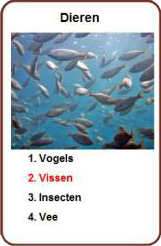
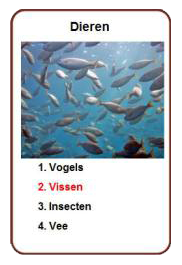
Added new cards with shadow, refactored and fixed some bugs

diff --git a/Lisa.Quartets/Lisa.Quartets.Mobile/Views/CardEnlargeView.xaml.cs b/Lisa.Quartets/Lisa.Quartets.Mobile/Views/CardEnlargeView.xaml.cs
@@ -30,21 +30,24 @@ namespace Lisa.Quartets.Mobile
                 Deselect(image);
                 image.ScaleTo(0.8, 100);
 
-				if (Device.OS == TargetPlatform.iOS) {
+                if (IsIos()) {
 					image.FadeTo(0.5, 100);   
-				} else {					
+				}
+                else
+                {					
 					_opacity[image.CardId].FadeTo(1, 100);
 				}
-
 			}
 			else
 			{
                 Select(image);
                 image.ScaleTo(1, 100);
 
-				if (Device.OS == TargetPlatform.iOS) {
+                if (IsIos()) {
 					image.FadeTo(1, 100);   
-				} else {
+				}
+                else
+                {
 					_opacity[image.CardId].FadeTo(0, 100);
 				}
 
@@ -56,19 +59,20 @@ namespace Lisa.Quartets.Mobile
         private void SetImages()
         {
             CardLayout cardGrid = new CardLayout();
-            int column = 0;
-            int row = 0;
 
             var tapGestureRecognizer = new TapGestureRecognizer();
             tapGestureRecognizer.Tapped += OnImageClick;
             FileImageSource opacitySource = new FileImageSource { File = "opacity.png" };
+            FileImageSource shawdowSource = new FileImageSource { File = "shadow.png" };
 
             foreach (var image in _cardImageHolder.CardImages)
             {
                 image.Scale = 0.8;
                 image.GestureRecognizers.Add(tapGestureRecognizer);
+                Image shadow = new Image { Source = shawdowSource, Scale = 0.8 };
 
-				if (Device.OS == TargetPlatform.iOS) {
+
+                if (IsIos()) {
 					if (IsSelected(image)) {
 						image.Opacity = 1;
 						image.Scale = 1;
@@ -89,20 +93,10 @@ namespace Lisa.Quartets.Mobile
 
 					_opacity.Add(image.CardId, opacity);
 
-					var parent = new AbsoluteLayout{ Children = { image, _opacity[image.CardId] } };
+                    var parent = new AbsoluteLayout{ Children = { image, _opacity[image.CardId] } };
 
 					cardGrid.Children.Add(parent);
 				}
-
-                if (column < 3)
-                {
-                    column++;
-                }
-                else
-                {
-                    column = 0;
-                    row++;
-                }
             }
 
             scrollView.Content = cardGrid;
@@ -111,6 +105,11 @@ namespace Lisa.Quartets.Mobile
         private bool IsSelected(CardImage image)
         { 
             return _selectedImages.Contains(image.CardId);
+        }
+
+        private bool IsIos()
+        {
+            return Device.OS == TargetPlatform.iOS;
         }
 
         private void Select(CardImage image)

diff --git a/Lisa.Quartets/Lisa.Quartets.Mobile/CardLayout.cs b/Lisa.Quartets/Lisa.Quartets.Mobile/CardLayout.cs
@@ -1,9 +1,6 @@
 using System;
 using System.Linq;
 using Xamarin.Forms;
-using System;
-using System.Linq;
-using Xamarin.Forms;
 
 namespace Lisa.Quartets.Mobile
 {
@@ -28,7 +25,7 @@ namespace Lisa.Quartets.Mobile
             int row = 0;
 
             double cardWidth = width / 4.0;
-            double cardHeight = 245 * (cardWidth / 162);
+            double cardHeight = 265 * (cardWidth / 182);
 
             foreach (View child in Children.Where(c => c.IsVisible))
             {
@@ -47,7 +44,7 @@ namespace Lisa.Quartets.Mobile
         private Size CalculateCardSize(double layoutWidth, double layoutHeight)
         {
             double width = layoutWidth / 4.0;
-            double height = 245 * (width / 162);
+            double height = 265 * (width / 182);
 
             return new Size(width, height);
         }

diff --git a/Lisa.Quartets/Lisa.Quartets.Mobile/Views/GiveCardView.xaml.cs b/Lisa.Quartets/Lisa.Quartets.Mobile/Views/GiveCardView.xaml.cs
@@ -74,8 +74,7 @@ namespace Lisa.Quartets.Mobile
         {
             var cards = _database.RetrieveCardsInHand(1);
             if (cards.Count < 1)
-            {
-                
+            {                
                 DisplayErrorMessage("Je hebt geen kaarten in je hand om weg te geven");
             }
                 

diff --git a/Lisa.Quartets/Lisa.Quartets.Mobile/Views/YesNoView.xaml.cs b/Lisa.Quartets/Lisa.Quartets.Mobile/Views/YesNoView.xaml.cs
@@ -9,7 +9,6 @@ namespace Lisa.Quartets.Mobile
 		public YesNoView()
 		{
 			InitializeComponent();
-			NavigationPage.SetHasNavigationBar(this, false);
 		}
 
 		public void YesClicked(object sender, EventArgs args)
